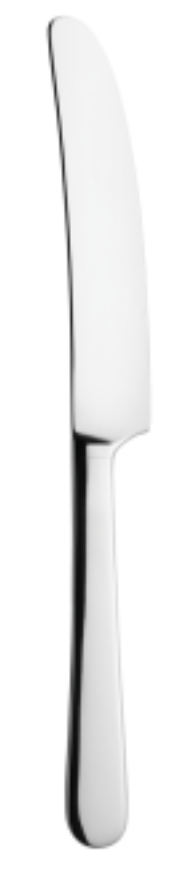
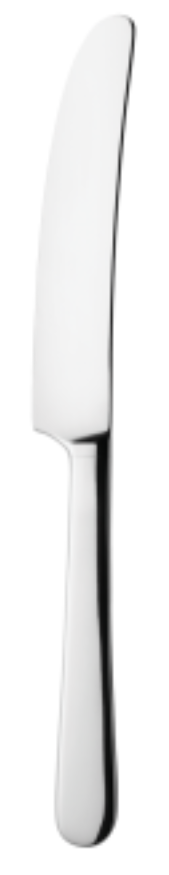
change orientation of knife image

Changed region(s): [[0.1775, 0.0, 0.8876, 0.9874]]

diff --git a/client/components/Dinner.tsx b/client/components/Dinner.tsx
@@ -13,6 +13,7 @@ import Chest from './CluePopups/Chest'
 import Duck from './CluePopups/Duck'
 import Mirror from './CluePopups/Mirror'
 import Pumpkin from './CluePopups/Pumpkin'
+import Chandelier from './CluePopups/Chandelier'
 
 //style:
 import '../styles/popup.css'
@@ -37,6 +38,7 @@ export default function Dinner() {
   const [duck, setDuck] = useState(false)
   const [mirror, setMirror] = useState(false)
   const [pumpkin, setPumpkin] = useState(false)
+  const [chandelier, setChandelier] = useState(false)
 
   useEffect(() => {
     if (
@@ -52,13 +54,13 @@ export default function Dinner() {
       !chest &&
       !duck &&
       !mirror &&
-      !pumpkin
+      !pumpkin &&
+      !chandelier
     ) {
       setBlock(false)
     } else {
       setBlock(true)
     }
-    console.log({ block }, { matching }, { matchingWin })
   }, [
     jigsaw,
     matching,
@@ -74,6 +76,7 @@ export default function Dinner() {
     duck,
     mirror,
     pumpkin,
+    chandelier,
   ])
 
   return (
@@ -237,7 +240,7 @@ export default function Dinner() {
       </div>
       {duck && (
         <div className="popup-overlay">
-          <div className="game-popup">
+          <div className="duck-popup">
             <Duck setDuck={setDuck} />
           </div>
         </div>
@@ -269,7 +272,7 @@ export default function Dinner() {
       </div>
       {pumpkin && (
         <div className="popup-overlay">
-          <div className="game-popup">
+          <div className="duck-popup">
             <Pumpkin setPumpkin={setPumpkin} />
           </div>
         </div>
@@ -279,6 +282,23 @@ export default function Dinner() {
           <img
             className={block ? 'block' : 'pumpkin'}
             src="../../public/dinner-images/pumpkins.png"
+            alt="frame with map"
+          />
+        </button>
+      </div>
+
+      {chandelier && (
+        <div className="popup-overlay">
+          <div className="duck-popup">
+            <Chandelier setChandelier={setChandelier} />
+          </div>
+        </div>
+      )}
+      <div className="chandelierdiv">
+        <button className="chandelier" onClick={() => setChandelier(true)}>
+          <img
+            className={block ? 'block' : 'chandelier'}
+            src="../../public/dinner-images/chandelier.png"
             alt="frame with map"
           />
         </button>

diff --git a/client/styles/popup.css b/client/styles/popup.css
@@ -55,3 +55,26 @@
   border-radius: 8px;
   box-shadow: 0px 0px 10px rgba(0, 0, 0, 0.5);
 }
+
+.duck-popup {
+  background-color: rgb(219, 208, 193);
+  width: 20%;
+  height: 15%;
+  text-align: center;
+  padding: 20px;
+  border-radius: 8px;
+  box-shadow: 0px 0px 10px rgba(0, 0, 0, 0.5);
+}
+
+.duckCloseButton {
+  position: absolute;
+  right: 39%;
+  top: 41%;
+  padding-top: 0px;
+  border-radius: 5px;
+  margin-right: 6px;
+  margin-top: 6px;
+  background-color: #ffffff;
+  opacity: 1;
+  font-size: 20px;
+}

diff --git a/client/styles/main.css b/client/styles/main.css
@@ -272,3 +272,23 @@ body {
     drop-shadow(0.5px 0.5px 0.5px white);
   opacity: 1;
 }
+
+.chandelierdiv {
+  position: relative;
+}
+
+.chandelier {
+  position: absolute;
+  background: none;
+  border: none;
+  padding: 0px;
+  height: 350px;
+  margin: -90px 0px 0px 400px;
+}
+
+.chandelier:hover {
+  filter: drop-shadow(0.5px 0.5px 0.5px white)
+    drop-shadow(0.5px 0.5px 0.5px white) drop-shadow(0.5px 0.5px 0.5px white)
+    drop-shadow(0.5px 0.5px 0.5px white);
+  opacity: 1;
+}

diff --git a/client/components/CluePopups/Duck.tsx b/client/components/CluePopups/Duck.tsx
@@ -7,7 +7,11 @@ export default function Duck({ setDuck }: Props) {
   return (
     <>
       <h1>Duck</h1>
-      <button className="closeButton" onClick={() => setDuck(false)}>
+      <p>
+        The duck reminds you of some method where you talk to a rubber ducky to
+        explain something step by step...
+      </p>
+      <button className="duckCloseButton" onClick={() => setDuck(false)}>
         x
       </button>
     </>

diff --git a/client/components/CluePopups/Chandelier.tsx b/client/components/CluePopups/Chandelier.tsx
@@ -1,0 +1,17 @@
+import '../../styles/popup.css'
+
+interface Props {
+  setChandelier: React.Dispatch<React.SetStateAction<boolean>>
+}
+
+export default function Chandelier({ setChandelier }: Props) {
+  return (
+    <>
+      <h1>Chandelier</h1>
+      <p>What a nice and fancy chandelier.</p>
+      <button className="duckCloseButton" onClick={() => setChandelier(false)}>
+        x
+      </button>
+    </>
+  )
+}

diff --git a/client/components/CluePopups/Pumpkin.tsx b/client/components/CluePopups/Pumpkin.tsx
@@ -7,7 +7,8 @@ export default function Pumpkin({ setPumpkin }: Props) {
   return (
     <>
       <h1>Pumpkin</h1>
-      <button className="closeButton" onClick={() => setPumpkin(false)}>
+      <p>Hmmm, these pumpkins look like they have been quite neglected...</p>
+      <button className="duckCloseButton" onClick={() => setPumpkin(false)}>
         x
       </button>
     </>
